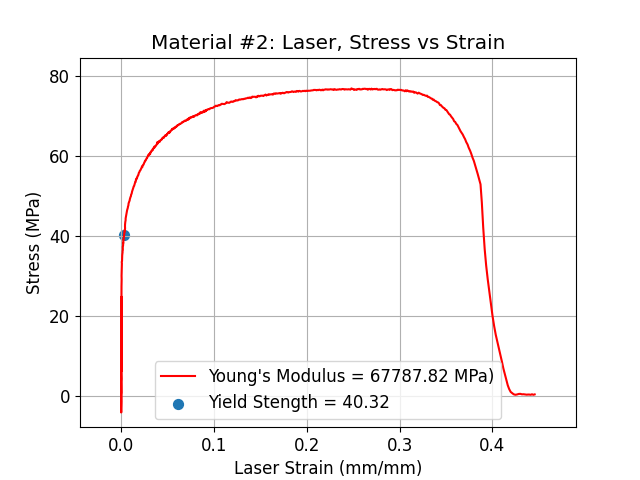
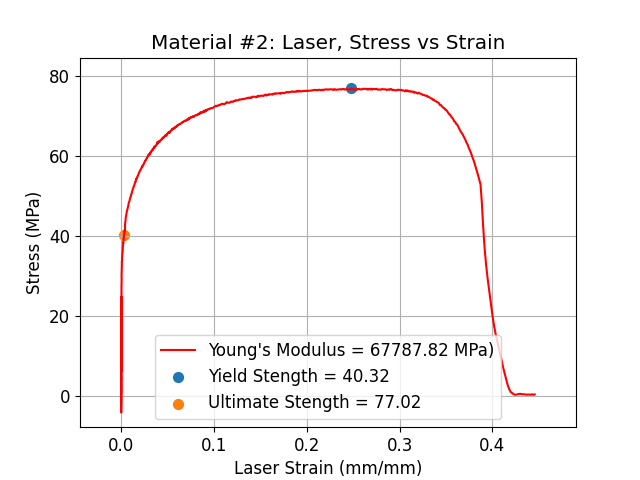
Did Ultimate yield, and POISSON
POIISSSSSOOOONNN

Changed region(s): [[0.25, 0.6875, 0.7812, 0.875], [0.5312, 0.1562, 0.5625, 0.2188], [0.1875, 0.4688, 0.2188, 0.5]]

diff --git a/src/graphing.py b/src/graphing.py
@@ -12,7 +12,7 @@ import pandas as pd
 import os
 
 
-def StrainGraph(data: pd.DataFrame, test_num: np.int8, sensor: np.array, modulus : np.array, yield_strength : np.array, save: bool):
+def StrainGraph(data: pd.DataFrame, test_num: np.int8, sensor: np.array, modulus : np.array, yield_strength : np.array, ultimate_strength : np.array, save: bool):
     '''
     PLots the strain graphs.
 
@@ -28,6 +28,8 @@ def StrainGraph(data: pd.DataFrame, test_num: np.int8, sensor: np.array, modulus
         elastic modulus of that material
     yield_strength : np.array
         yield strenngth location and value for that sample
+    ultimate_strength : np.array
+        ultimate strenngth location value for that sample
     save : bool
         save graphs or not
     '''
@@ -44,11 +46,27 @@ def StrainGraph(data: pd.DataFrame, test_num: np.int8, sensor: np.array, modulus
 
     for s in sensor:
         print(" Generating " + str(s) + " strain plot..")
+
+        if s in ['Strain Guage 1', 'Strain Guage 2'] and test_num == 2:
+            end_ind = 500
+
         plt.plot(data[s][0:end_ind], data.MTS_stress[0:end_ind], color = 'r')
-        if s in ['Laser', 'Strain Guage 2']:
-            plt.scatter(yield_strength[0], yield_strength[1], s=50)
-            mod = modulus[0 if (s == 'Laser') else 1]
-            plt.legend([f'Young\'s Modulus = {round(mod, 2)} MPa)', f'Yield Stength = {round(yield_strength[1], 2)}'])
+
+        mod = 0
+        
+        if s in ['Laser', 'Strain Guage 2', 'Strain Guage 1']:
+            
+            if s == 'Laser':
+                plt.scatter(ultimate_strength[0], ultimate_strength[1], s=50)
+                mod = modulus[0]
+                plt.scatter(yield_strength[0], yield_strength[1], s=50)
+            elif s == 'Strain Guage 2':
+                mod = modulus[1]
+                plt.scatter(yield_strength[0], yield_strength[1], s=50)
+            else:
+                mod = modulus[2]
+            
+            plt.legend([f'Young\'s Modulus = {round(mod, 2)} MPa)', f'Yield Stength = {round(yield_strength[1], 2)}', f'Ultimate Stength = {round(ultimate_strength[1], 2)}'])
 
 
         params = {'mathtext.default': 'regular' }          

diff --git a/src/analysis.py b/src/analysis.py
@@ -68,13 +68,16 @@ def ModulusProcess(data: pd.DataFrame, test_num: np.int8):
 
     # print(data[['MTS_stress', 'Laser']][0:end_ind])
 
-    modulus = [0, 0]
+    modulus = [0, 0, 0]
 
     modulus[0], intercept = np.polyfit(data['Laser'][30:end_ind], data.MTS_stress[30:end_ind], deg=1)
     modulus[1], intercept = np.polyfit(data['Strain Guage 2'][0:end_ind], data.MTS_stress[0:end_ind], deg=1)
+    modulus[2], intercept = np.polyfit(data['Strain Guage 1'][0:end_ind], data.MTS_stress[0:end_ind], deg=1) # transverse
 
     if test_num == 3:
         modulus[0], intercept = np.polyfit(data['Laser'][0:end_ind], data.MTS_stress[0:end_ind], deg=1)    
+        modulus[2], intercept = np.polyfit(data['Strain Guage 1'][0:end_ind], data.MTS_stress[0:end_ind], deg=1) # transverse
+
     
     return modulus
 
@@ -123,3 +126,37 @@ def YieldProcess(data: pd.DataFrame, test_num: np.int8, modulus: np.array):
         yield_strength = [strain_guage[intersect_ind], stress_measured[intersect_ind]]
     
     return yield_strength
+
+
+def UltimateProcess(data: pd.DataFrame, test_num: np.int8):
+    '''
+    Calculate the young's modulus of the sample.
+
+    Parameters:
+    -----------   
+    data : pd.DataFrame
+        data from sensors
+    test_num : np.int
+        sample number
+
+    Returns:
+    -----------   
+    ultimate_strength : np.array
+        ultimate strenngth location value for that sample
+    '''
+
+    end_indices = [700, 700, 700, 700, 700] # region within which each graph is linear, determined observationally
+    
+    end_ind = end_indices[test_num-1]
+
+    end_ind = -1; 
+
+    sensor = ['Laser', 'Strain Guage 2']
+
+    stress_measured = data['MTS_stress'][0:end_ind]
+    ultimate_strength = [data.Laser[list(stress_measured).index(max(stress_measured))] , max(stress_measured)]
+    
+    
+    return ultimate_strength
+
+    

diff --git a/src/main.py b/src/main.py
@@ -54,8 +54,10 @@ for test_num in range(1,6):
     modulus = ModulusProcess(parsed_data, test_num)
 
     yield_strength = YieldProcess(parsed_data, test_num, modulus)
+    ultimate_strength = UltimateProcess(parsed_data, test_num)
 
-    print(yield_strength)
+    print("Poisson's Ratio:")
+    print(modulus[1]/modulus[2])
 
     # print(parsed_data)
     print("Analysis Complete...")
@@ -66,8 +68,13 @@ for test_num in range(1,6):
 
     sensor = ['MTS', 'Laser', 'Strain Guage 1', 'Strain Guage 2']
     save = True
-    StrainGraph(parsed_data, test_num, sensor, modulus, yield_strength, save)
+    StrainGraph(parsed_data, test_num, sensor, modulus, yield_strength, ultimate_strength, save)
     print("=========================================")
 
     # print("Saving Data CSVs...")
     # Saving data raw data to CSV
+
+    # find the ultimate yield 
+    # find poisson's ration
+
+    
